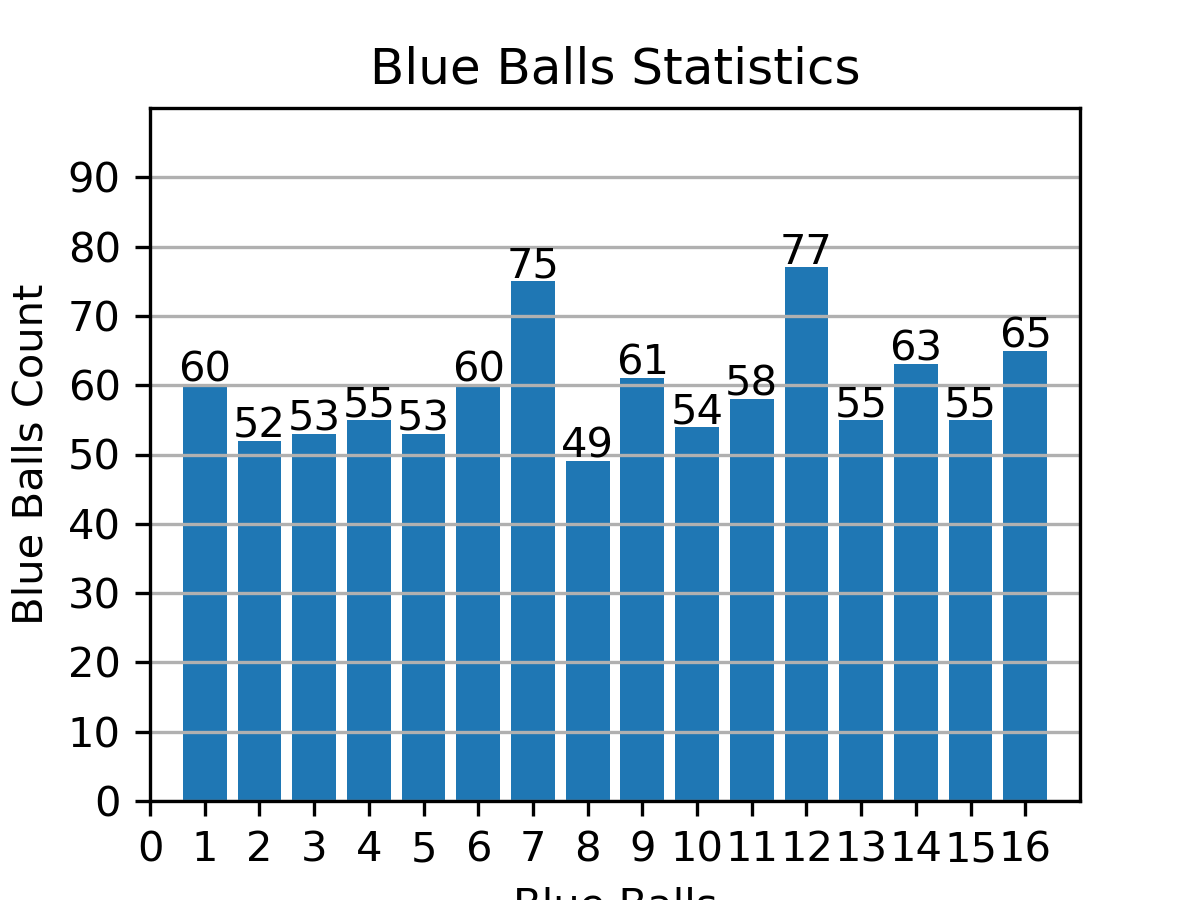
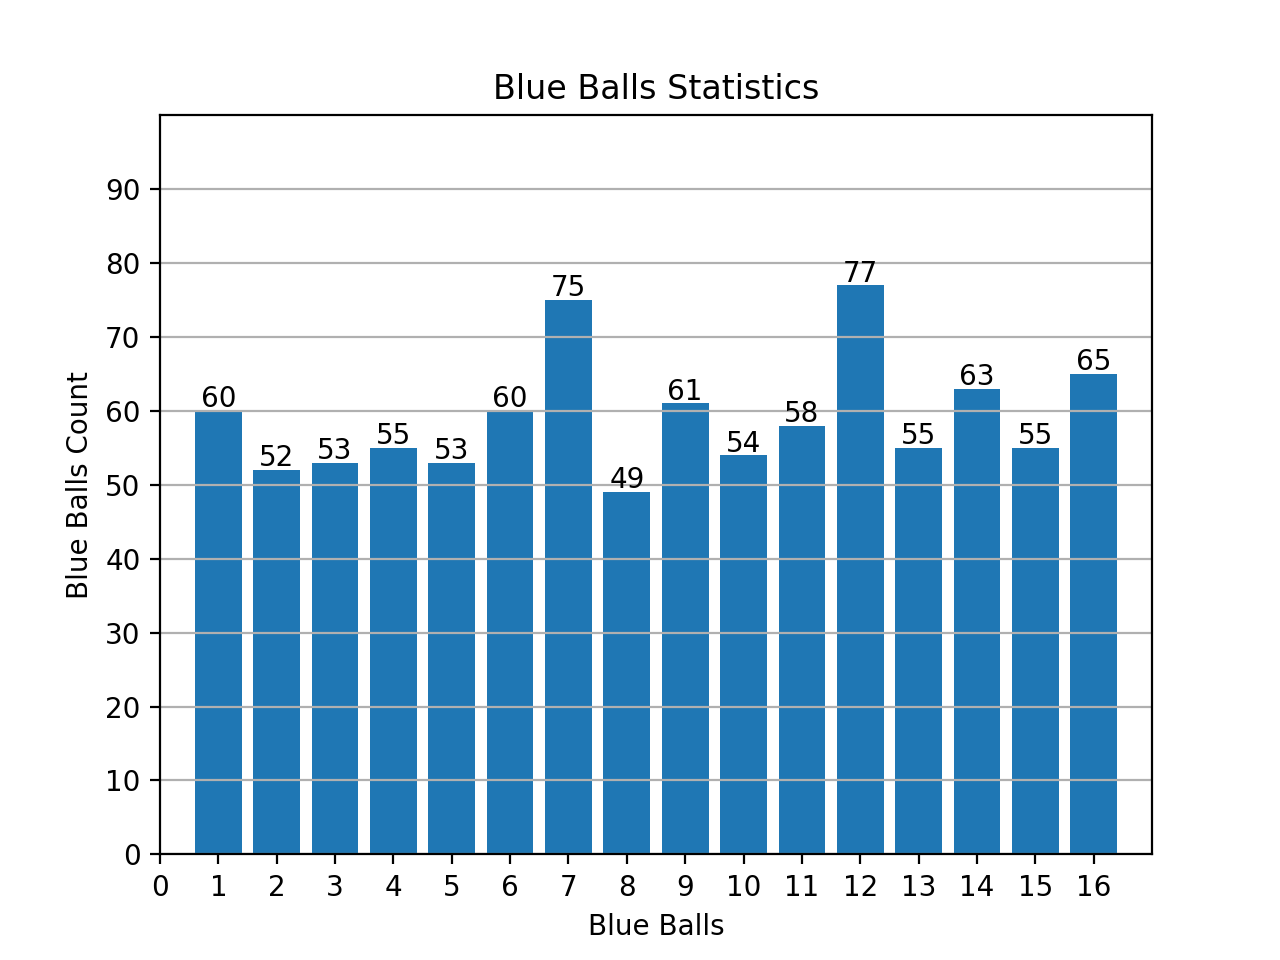
图片生成

diff --git a/DataShow/DataVisual.py b/DataShow/DataVisual.py
@@ -38,7 +38,7 @@ class DataVisual:
         for x, y in zip(show_ball, blue_statistics):
             pyplot.text(x, y+0.5, y, ha='center')
         pyplot.grid(axis="y")
-        pyplot.savefig(r"{0}\..\image\BlueBallsStatistics.png".format(os.getcwd()), dpi=300)
+        pyplot.savefig(r"{0}\..\image\BlueBallsStatistics.png".format(os.getcwd()), dpi=200)
         pyplot.show()
 
     def red_statistics_visual(self):
@@ -81,5 +81,5 @@ class DataVisual:
 if __name__ == "__main__":
     dv = DataVisual()
     # dv.blue_visual()
-    # dv.blue_statistics_visual()
+    dv.blue_statistics_visual()
     dv.red_statistics_visual()
